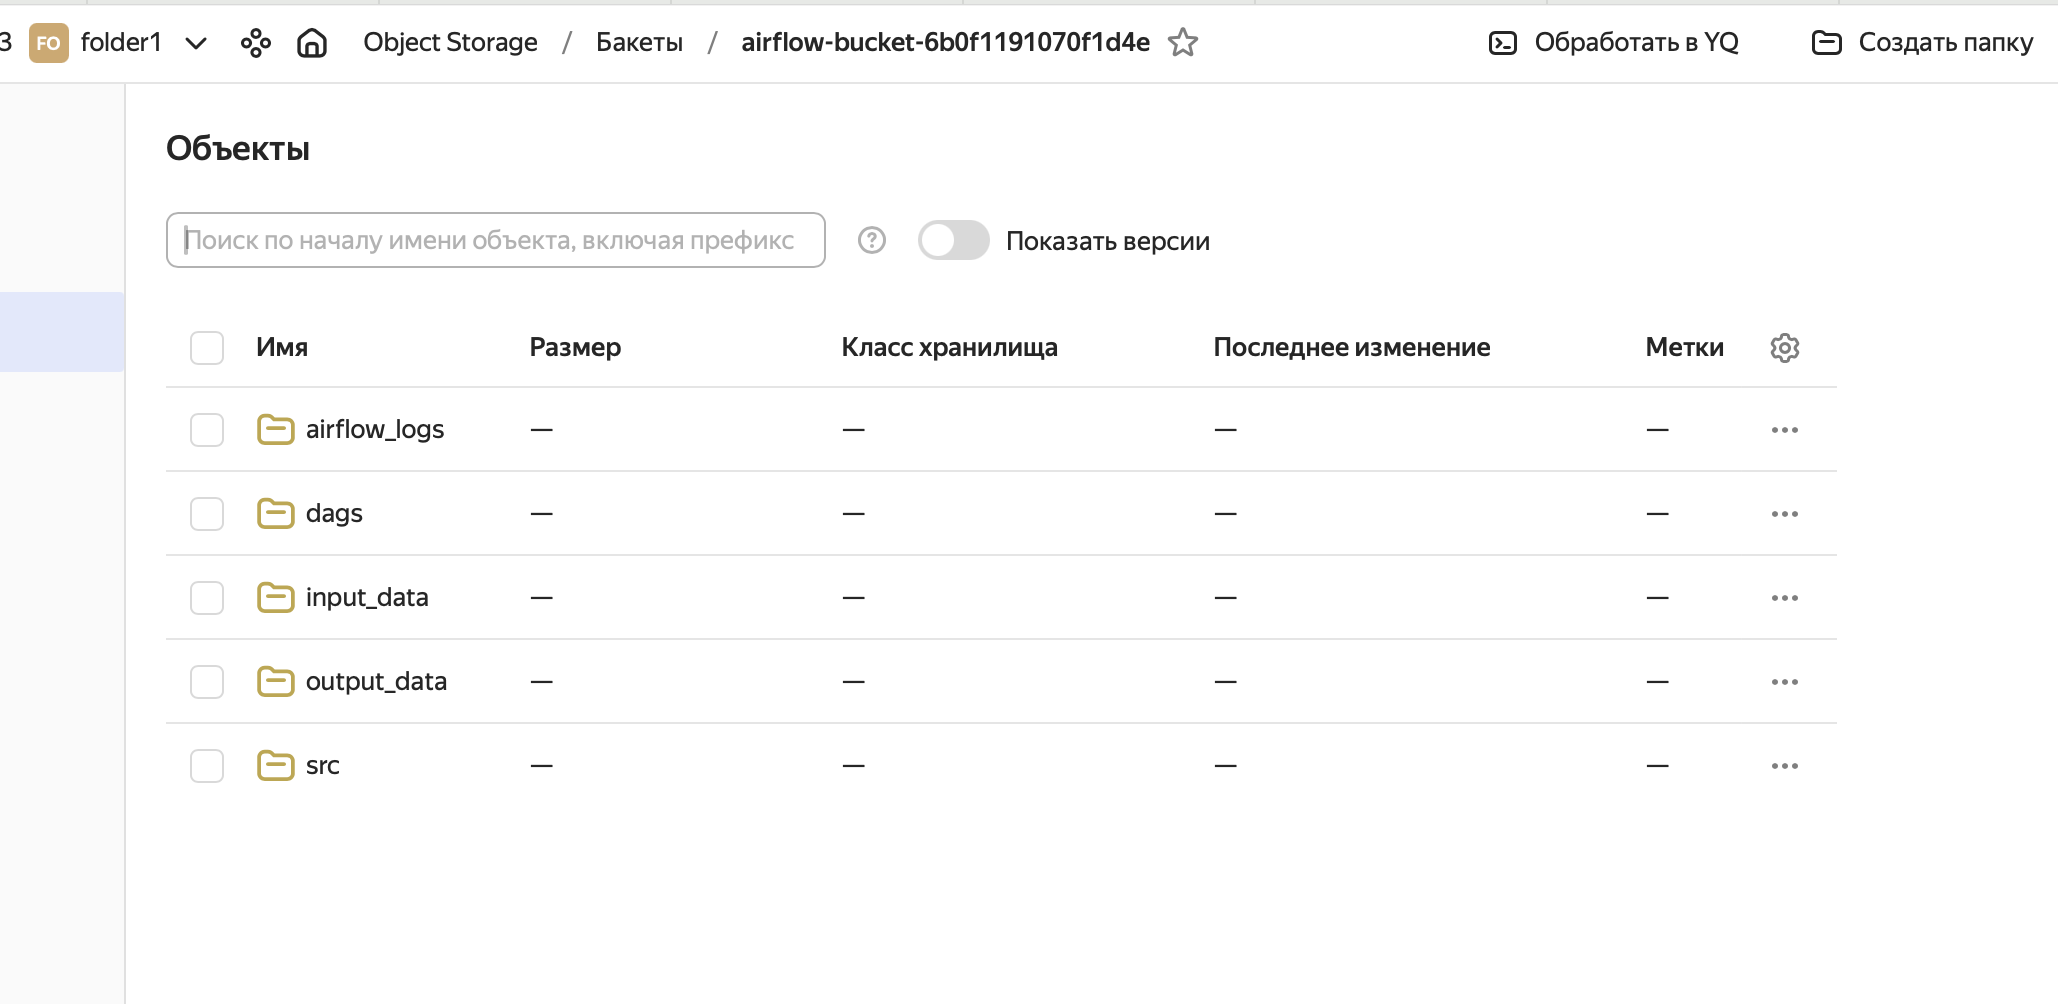
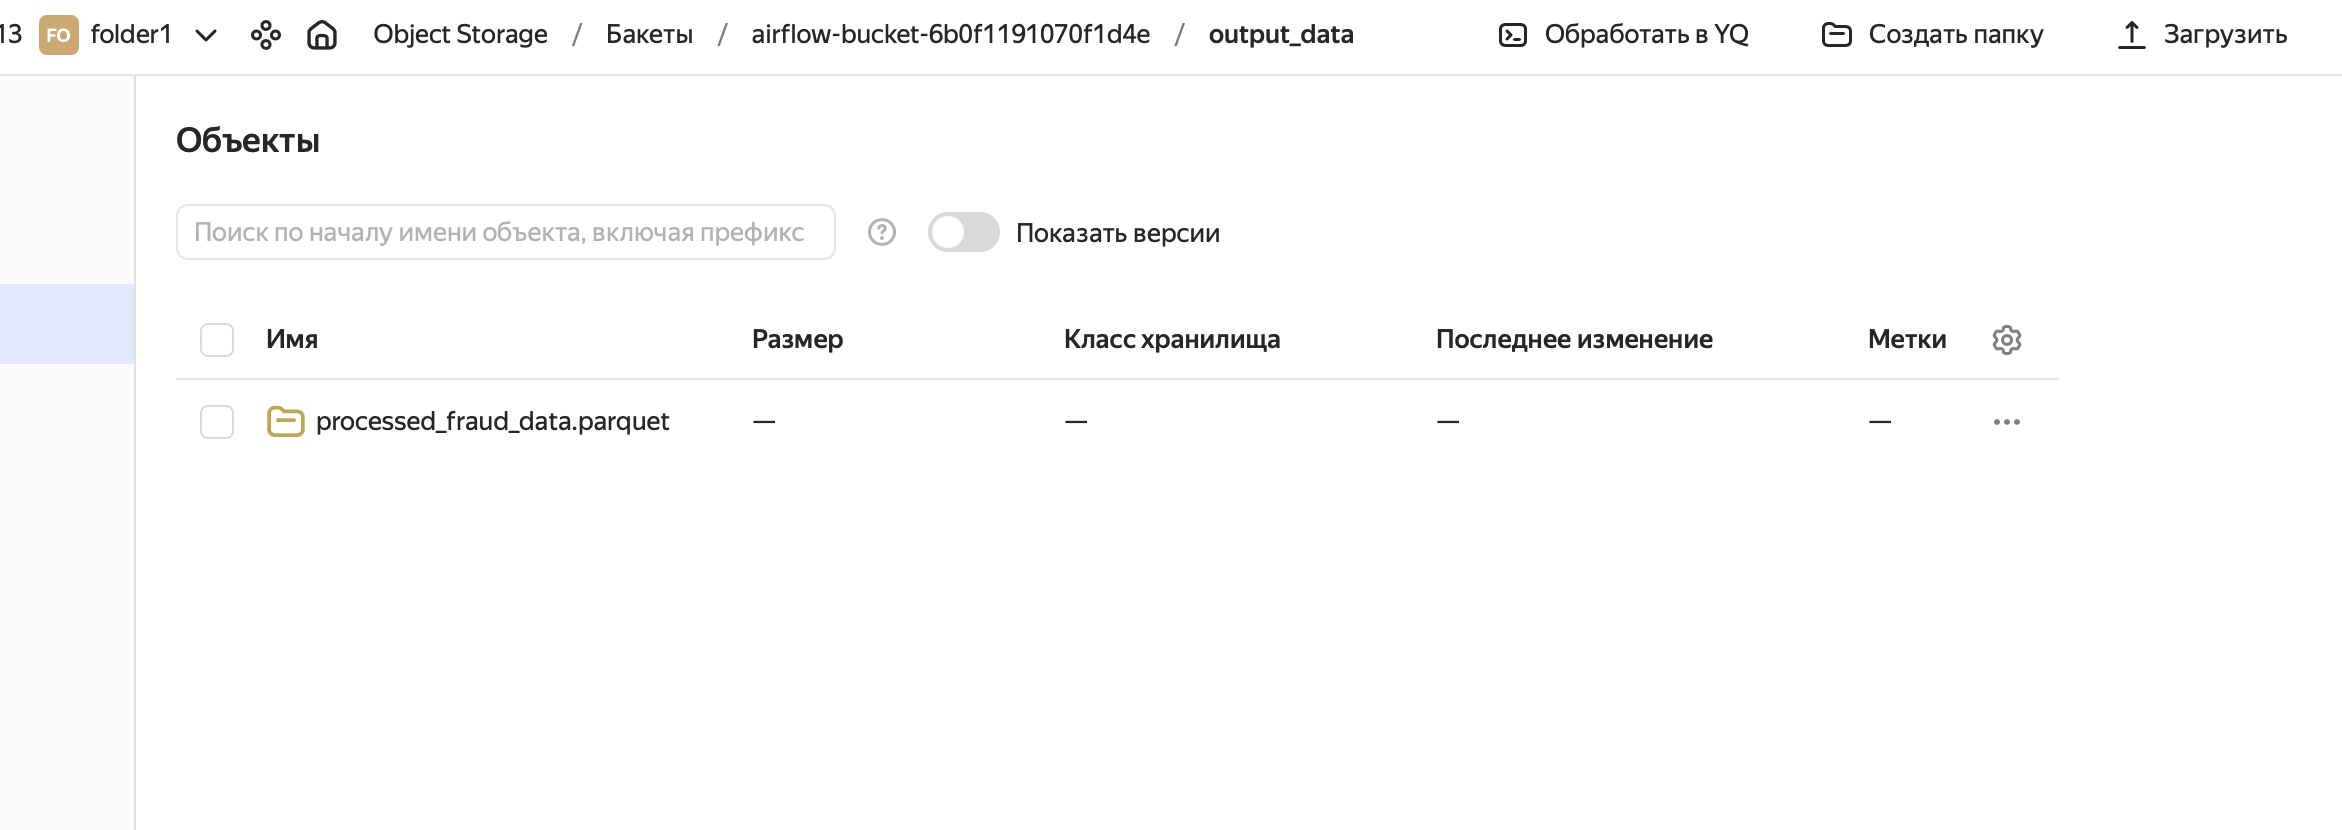
readme updated

diff --git a/README.md b/README.md
@@ -1,11 +1,19 @@
-# OTUS. Практика. Конвейер подготовки данных
+# OTUS. Настройка облачной инфраструктуры (ДЗ №5)
 
-## План занятия
-
-0. Разберем схему конвейера подготовки данных
-1. Развернем инфраструктуру в Yandex.Cloud
-2. Посмотрим на конфигурацию инфраструктуры в модулях Terraform
-3. Разберем DAG-пайплайн с Airflow и исходный код
-4. Посмотрим на все компоненты в рабочем режиме
-5. Запустим пайплайн и посмотрим на результаты
-6. *Бонус
+## Отчет по сделанной работе:
+(Все скрины можно найти в папке infra/screens).   
+1) Запустила систему Apache Airflow на отдельной виртуальной машине Yandex
+cloud. 
+2) Создала DAG для ежедневного автоматизированного создания и удаления Spark-
+кластера и запуска скрипта очистки датасета и разместила его в директории для DAG’ов,
+доступной Apache Spark.
+3) После того как инфраструктура создалась проделываю выполняю следующие команды:
+- `make generate-env` (генерирую .env файл из переменных которые записались в variables.json).  
+- `make upload-few-data-to-bucke` (отправляю данные с публичного бакета на свой новый созданный бакет).  
+- `make upload-src-to-bucket` (отправляю исходный код на бакет).  
+- `upload-dags-to-bucket` (отправляю dag на бакет).  
+Скрин с загруженными данными на бакет: screens/bucket_processed_parquet.png
+- подгружаю переменные variables.json в airflow ui
+- запскаю dag в UI (все задачи отрабатывают, скрин прикрепила в screens/airflow_dag_completed.png)
+4) Граф загрузился в систему и отображается в графическом интерфейсе, что можно увидеть на скринах. Задачи отработали
+8) Удален кластер
